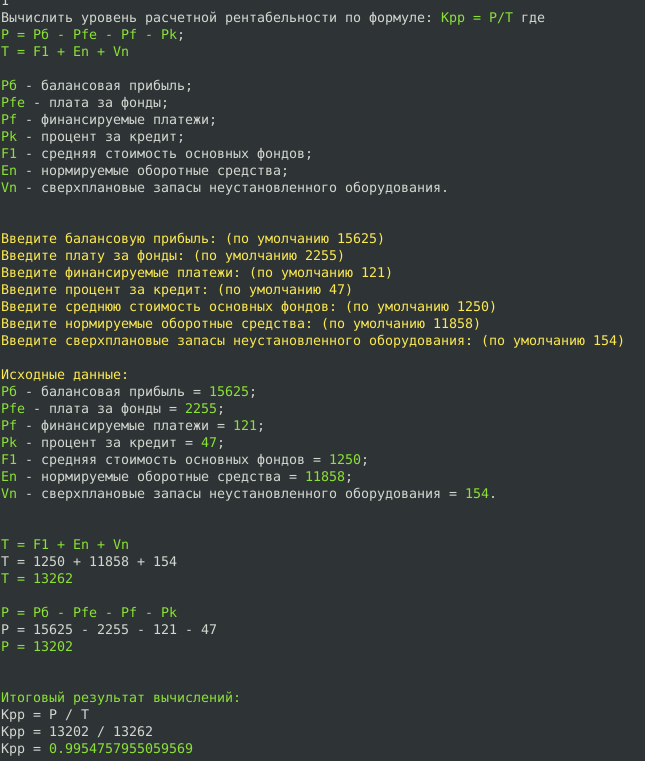
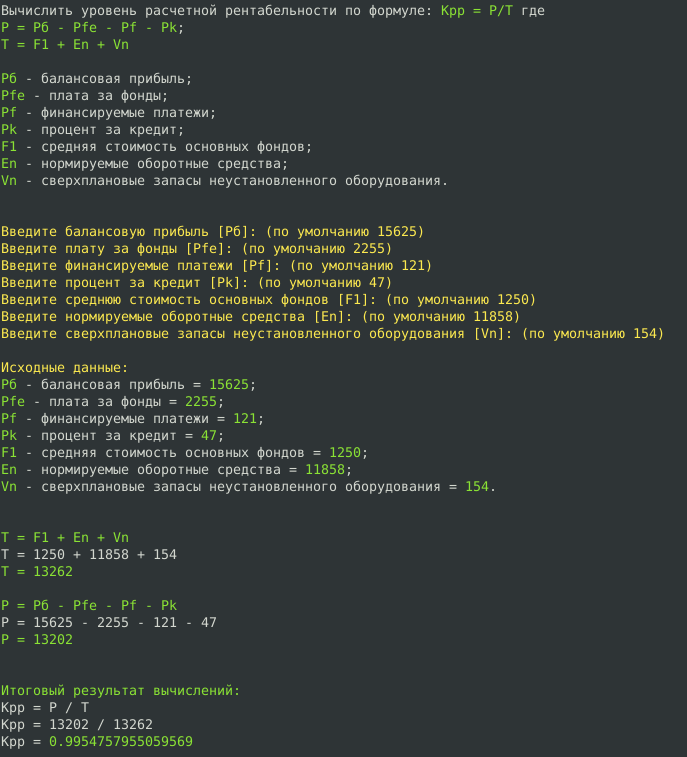
correct readme, ex 1 and input

diff --git a/ex_1.py b/ex_1.py
@@ -7,6 +7,8 @@ _DEFAULT_PK = 47
 _DEFAULT_EN = 11858
 _DEFAULT_VN = 154
 _DEFAULT_F1 = 1250
+_MIN_VALUE = 1
+_MAX_VALUE = 9999999999
 
 def init():
     print(
@@ -22,14 +24,47 @@ def init():
         f'{get_text_color("Vn", COLOR_GREEN)} - сверхплановые запасы неустановленного оборудования.\n\n'
     )
     
-    pb = input_number(f'Введите балансовую прибыль: (по умолчанию {_DEFAULT_PB})', _DEFAULT_PB)
-    pfe = input_number(f'Введите плату за фонды: (по умолчанию {_DEFAULT_PFE})', _DEFAULT_PFE)
-    pf = input_number(f'Введите финансируемые платежи: (по умолчанию {_DEFAULT_PF})', _DEFAULT_PF)
-    pk = input_number(f'Введите процент за кредит: (по умолчанию {_DEFAULT_PK})', _DEFAULT_PK)
+    pb = input_number(
+        text=f'Введите балансовую прибыль [Pб]: (по умолчанию {_DEFAULT_PB})', 
+        default_value=_DEFAULT_PB,
+        min=_MIN_VALUE,
+        max=_MAX_VALUE
+    )
+    pfe = input_number(
+        text=f'Введите плату за фонды [Pfe]: (по умолчанию {_DEFAULT_PFE})', 
+        default_value=_DEFAULT_PFE,
+    )
+    pf = input_number(
+        text=f'Введите финансируемые платежи [Pf]: (по умолчанию {_DEFAULT_PF})', 
+        default_value=_DEFAULT_PF,
+        min=_MIN_VALUE,
+        max=_MAX_VALUE
+    )
+    pk = input_number(
+        text=f'Введите процент за кредит [Pk]: (по умолчанию {_DEFAULT_PK})', 
+        default_value=_DEFAULT_PK,
+        min=_MIN_VALUE,
+        max=_MAX_VALUE
+    )
     
-    f1 = input_number(f'Введите среднюю стоимость основных фондов: (по умолчанию {_DEFAULT_F1})', _DEFAULT_F1)
-    en = input_number(f'Введите нормируемые оборотные средства: (по умолчанию {_DEFAULT_EN})', _DEFAULT_EN)
-    vn = input_number(f'Введите сверхплановые запасы неустановленного оборудования: (по умолчанию {_DEFAULT_VN})', _DEFAULT_VN)
+    f1 = input_number(
+        text=f'Введите среднюю стоимость основных фондов [F1]: (по умолчанию {_DEFAULT_F1})', 
+        default_value=_DEFAULT_F1,
+        min=_MIN_VALUE,
+        max=_MAX_VALUE
+    )
+    en = input_number(
+        text=f'Введите нормируемые оборотные средства [En]: (по умолчанию {_DEFAULT_EN})', 
+        default_value=_DEFAULT_EN,
+        min=_MIN_VALUE,
+        max=_MAX_VALUE
+    )
+    vn = input_number(
+        text=f'Введите сверхплановые запасы неустановленного оборудования [Vn]: (по умолчанию {_DEFAULT_VN})',
+        default_value=_DEFAULT_VN,
+        min=_MIN_VALUE,
+        max=_MAX_VALUE
+    )
     
     print(
         f'\n{get_text_color("Исходные данные:", COLOR_WARNING)}\n'

diff --git a/helpers.py b/helpers.py
@@ -13,13 +13,21 @@ def is_number(str)-> bool:
     except ValueError:
         return False
         
-def input_number(text: str, default_value: float)-> float:
+def input_number(text: str, default_value: float = None, min: float = None, max: float = None)-> float:
     while True:
         number = input(f'{get_text_color(text, COLOR_WARNING)} ')
         if number == '':
-            return default_value
+            if default_value is not None:
+                return default_value
+            else:
+                print(get_text_color(f"Введите число!", COLOR_FAIL))
         elif is_number(number):
-            return float(number)
+            if min is not None and float(number) < min:
+                print(get_text_color(f"Минимально допустимое число - {min}!", COLOR_FAIL))
+            elif max is not None and float(number) > max:
+                print(get_text_color(f"Максимально допустимое число - {max}!", COLOR_FAIL))
+            else:
+                return float(number)
         else:
             print(get_text_color(f"\"{number}\" - не число! Повторите ввод!", COLOR_FAIL))
             
